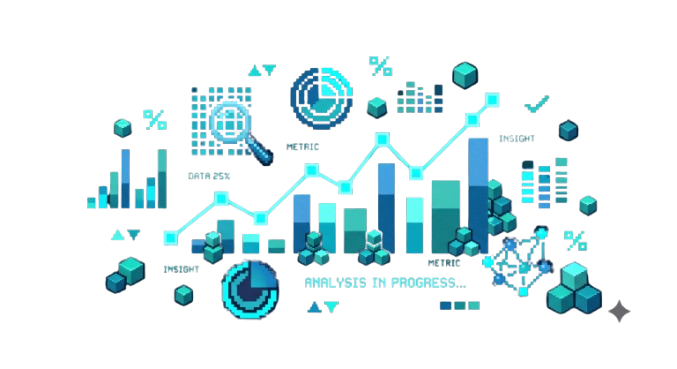
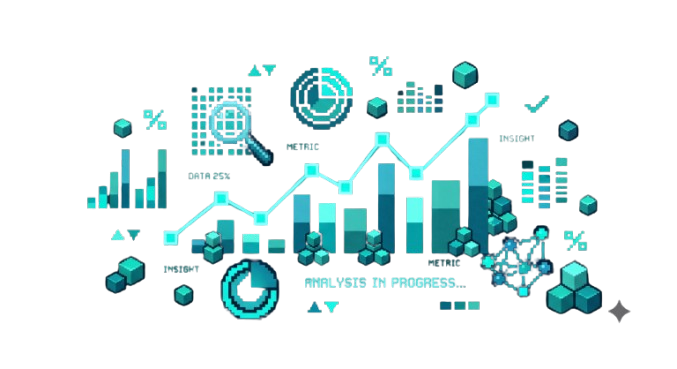
update

diff --git a/index.html b/index.html
@@ -4,6 +4,7 @@
 <meta charset="UTF-8">
 <meta name="viewport" content="width=device-width, initial-scale=1.0">
 <meta name="color-scheme" content="dark">
+<link rel="icon" type="image/png" href="img/favicon.png">
 <title>Power BI Portfólió | Lakatos Csanád</title>
 <link rel="preconnect" href="https://fonts.googleapis.com">
 <link rel="preconnect" href="https://fonts.gstatic.com" crossorigin>
@@ -148,7 +149,7 @@
         </h1>
         <p class="subtitle">
           <span data-lang="hu">Adatelemzői munkáim gyűjteménye - minta riportok és dashboardok a Power BI műhelyemből. Érdeklődés esetén vegye fel a kapcsolatot velem a <a href="https://www.linkedin.com/in/lakatos-csanad/" target="_blank" rel="noopener">LinkedIn</a> profilomon keresztül.</span>
-          <span data-lang="en">A collection of my data analyst work — sample reports and dashboards from my Power BI practice. If you're interested, feel free to get in touch via my <a href="https://www.linkedin.com/in/lakatos-csanad/" target="_blank" rel="noopener">LinkedIn</a> profile.</span>
+          <span data-lang="en">A collection of my data analyst work - sample reports and dashboards from my Power BI practice. If you're interested, feel free to get in touch via my <a href="https://www.linkedin.com/in/lakatos-csanad/" target="_blank" rel="noopener">LinkedIn</a> profile.</span>
         </p>
       </div>
       <div class="header-art">